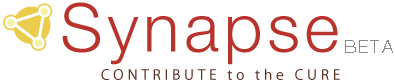
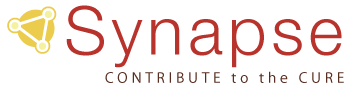
Header update, tab sizing and location

Changed region(s): [[0.0, 0.0244, 1.0, 0.8049], [0.2479, 0.8293, 0.9915, 0.9756]]

diff --git a/src/main/webapp/Portal.css b/src/main/webapp/Portal.css
@@ -1254,7 +1254,7 @@ ol.lowerroman {
     cursor: pointer;
 }
 a.projectTitle:hover {
-	text-decoration: none;
+	text-decoration: underline;
 	color: #555;
 } 
 
@@ -1272,9 +1272,15 @@ a.projectTitle:hover {
 	display: table;
 }
 
-.tabLabelPosition {
+.tabLabel {
     position: absolute;
     top: 4px;
+    font-size: 10px;
+}
+
+.entity-tab {
+	width: 140px;
+	font-size: 16px;	
 }
 
 /*==================================*/

diff --git a/src/main/java/org/sagebionetworks/web/client/widget/entity/EntityPageTopViewImpl.java b/src/main/java/org/sagebionetworks/web/client/widget/entity/EntityPageTopViewImpl.java
@@ -242,7 +242,7 @@ public class EntityPageTopViewImpl extends Composite implements EntityPageTopVie
 
 	private void notifyNewTabs() {
 		if(!newBadgesShown) {
-			fileLink.setHTML(DisplayConstants.FILES + "<span class=\"label label-info margin-left-5 tabLabelPosition\">new</span>");
+			fileLink.setHTML(DisplayConstants.FILES + "<span class=\"label label-info margin-left-5 tabLabel\">new</span>");
 			Timer t = new Timer() {
 			      @Override
 			      public void run() {

diff --git a/src/main/java/org/sagebionetworks/web/client/widget/header/HeaderViewImpl.java b/src/main/java/org/sagebionetworks/web/client/widget/header/HeaderViewImpl.java
@@ -327,13 +327,9 @@ public class HeaderViewImpl extends Composite implements HeaderView {
 	@Override
 	public void setLargeLogo(boolean isLarge) {
 		this.showLargeLogo = isLarge;
-		if(!DisplayUtils.isInTestWebsite(cookies)) {
-			this.showLargeLogo = true;
-		}
 	}
 	
 	private void setLogo() {
-		showLargeLogo = false;
 		if(showLargeLogo) {
 			logoLarge.setVisible(true);
 			logoSmall.setVisible(false);
